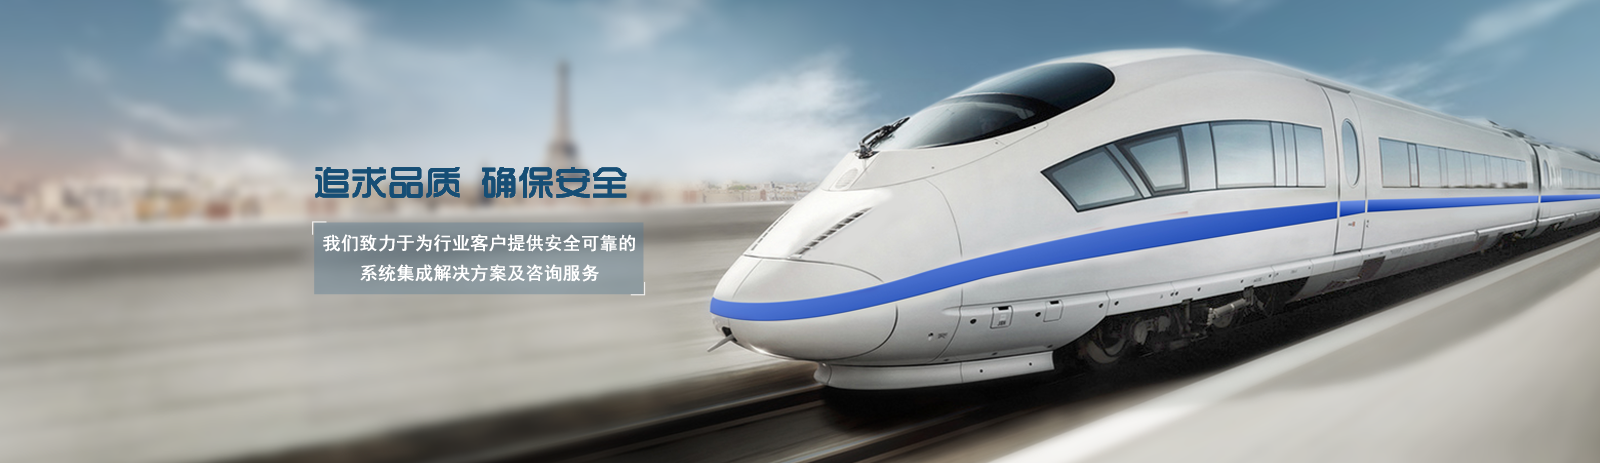
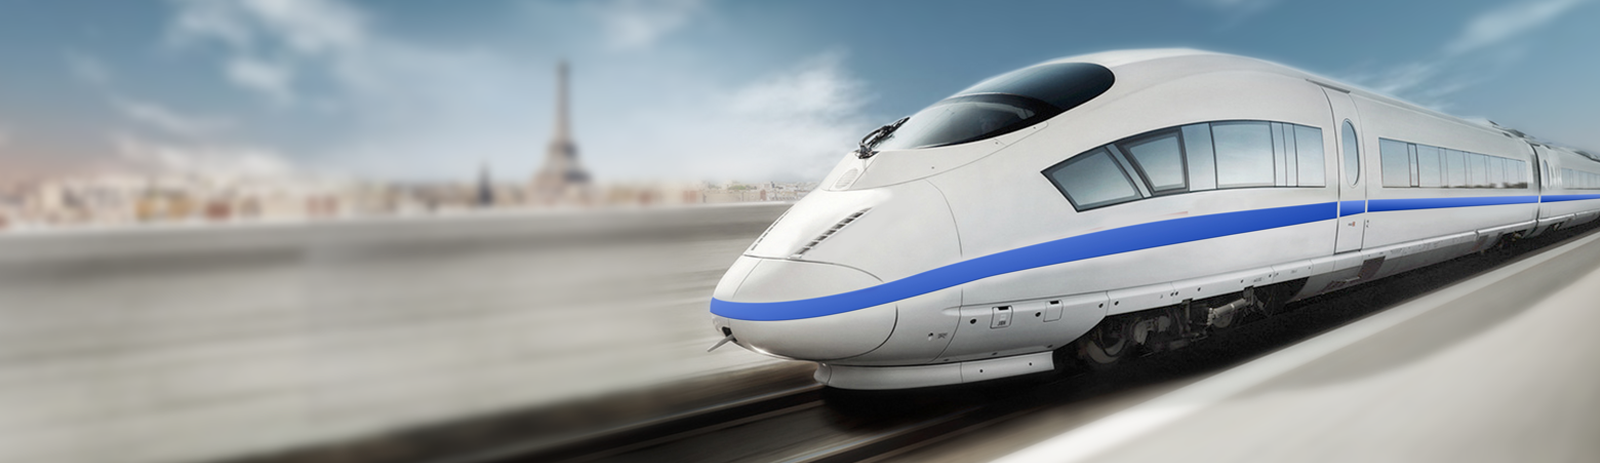
summary

Changed region(s): [[0.1875, 0.4838, 0.4062, 0.635], [0.1875, 0.3629, 0.4062, 0.4233]]

diff --git a/assets/css/all.css b/assets/css/all.css
@@ -130,6 +130,31 @@ img {
   margin-top: 4px;
 }
 
+.jc-banner01-text {
+  width: 162px;
+  height: 372px;
+  position: absolute;
+  top: 20%;
+  left: 10%;
+}
+
+.jc-banner02-text {
+  width: 228px;
+  height: 121px;
+  position: absolute;
+  left: 50%;
+  top: 10%;
+}
+
+.jc-banner03-text {
+  width: 384px;
+  height: 106px;
+  left: 10%;
+  top: 10%;
+  display: block;
+  position: absolute;
+}
+
 .jc_flexslider {
   margin: 0px auto 20px;
   position: relative;
@@ -479,8 +504,14 @@ screen\8 {
 .jc-application-threecont p {
   line-height: 32px;
   font-size: 16px;
-  font-family: "SimHei";
   white-space: normal;
+}
+
+.jc-main .jc-maindel p,
+.jc-about p,
+.jc-application-twocont p,
+.jc-application-threecont p .jc-join-modulecont p {
+  font-family: "SimHei";
 }
 
 .jc-servicecont {
@@ -686,7 +717,7 @@ screen\8 {
 }
 
 .jc-contact-text {
-  width: 500px;
+  width: 460px;
   padding-top: 90px;
   float: left;
   text-align: center;
@@ -694,6 +725,14 @@ screen\8 {
 
 .jc-contact-text h3 {
   margin-bottom: 10px;
+}
+
+.jc-contact-text p a {
+  color: #000;
+}
+
+.jc-contact-text p a:hover {
+  color: #12387c;
 }
 
 .jc-contact-map {
@@ -719,9 +758,10 @@ screen\8 {
 }
 
 .jc-join-moduletitle p {
-  font-size: 24px;
+  font-size: 22px;
   color: #12387c;
   float: left;
+  font-weight: bold;
 }
 
 .jc-join-right {
@@ -746,7 +786,7 @@ screen\8 {
 }
 
 .jc-join-modulecont span {
-  font-size: 18px;
+  font-size: 16px;
   margin-bottom: 10px;
   margin-top: 14px;
   display: block;

diff --git a/index.html b/index.html
@@ -40,17 +40,20 @@
     <!-- 轮播广告 -->
     <div id="jc_banner_tabs" class="jc_flexslider">
       <ul class="jc_slides">
-        <li>
+        <!--  <li>
+          <span class="jc-banner01-text"><img src="assets/images/jc_banner01_text.png" height="162" width="372" alt=""></span>
           <a title="" target="_blank" href="about.html">
             <img width="1920" height="464" alt="" style="background: url(assets/images/jc_banner01.png) no-repeat center; background-size: cover;" src="assets/images/alpha.png">
           </a>
-        </li>
+        </li> -->
         <li>
+          <span class="jc-banner02-text"><img src="assets/images/jc_banner02_text.png" height="121" width="228" alt=""></span>
           <a title="" href="product.html">
             <img width="1920" height="464" alt="" style="background: url(assets/images/jc_banner02.png) no-repeat center;background-size: cover;" src="assets/images/alpha.png">
           </a>
         </li>
         <li>
+          <span class="jc-banner03-text"><img src="assets/images/jc_banner03_text.png" height="106" width="384" alt=""></span>
           <a title="" href="application.html">
             <img width="1920" height="464" alt="" style="background: url(assets/images/jc_banner03.png) no-repeat center;background-size: cover;" src="assets/images/alpha.png">
           </a>

diff --git a/contact.html b/contact.html
@@ -100,9 +100,9 @@
     <div class="jc-contact-inner">
       <div class="jc-contact-text">
         <h3>北京中航嘉城科技股份有限公司</h3>
-        <p>服务热线：4008-345-876（16px）
+        <p>服务热线：4008-345-876
           <br> 传真：010-62967927
-          <br> 邮箱：info@jccatech.com
+          <br> 邮箱：<a href="mailto:info@jccatech.com">info@jccatech.com</a>
           <br> 地址：北京市海淀区高粱桥斜街59号中坤大厦1018
         </p>
       </div>
@@ -145,7 +145,7 @@
   //创建检索信息窗口对象
   var searchInfoWindow = null;
   searchInfoWindow = new BMapLib.SearchInfoWindow(map, content, {
-    title: "中坤大厦", //标题
+    title: "中航嘉城", //标题
     width: 290, //宽度
     height: 105, //高度
     panel: "panel", //检索结果面板

diff --git a/about.html b/about.html
@@ -37,7 +37,10 @@
   <!-- jc-banner  start-->
   <div class="jc-banner-inner">
     <div id="jc_banner_tabs" class="jc_flexslider">
-      <img width="1920" height="464" alt="" style="background: url(assets/images/jc_banner01.png) no-repeat center;background-size: cover;" src="assets/images/alpha.png">
+      <span class="jc-banner01-text"><img src="assets/images/jc_banner01_text.png" height="162" width="372" alt=""></span>
+      <a title="" target="_blank" href="about.html">
+        <img width="1920" height="464" alt="" style="background: url(assets/images/jc_banner01.png) no-repeat center; background-size: cover;" src="assets/images/alpha.png">
+      </a>
     </div>
   </div>
   <!-- jc-banner  end-->

diff --git a/application.html b/application.html
@@ -38,7 +38,10 @@
   <div class="jc-banner-inner">
     <!-- 轮播广告 -->
     <div id="jc_banner_tabs" class="jc_flexslider">
-      <img width="1920" height="464" alt="" style="background: url(assets/images/jc_banner02.png) no-repeat center;background-size: cover;" src="assets/images/alpha.png">
+      <span class="jc-banner03-text"><img src="assets/images/jc_banner03_text.png" height="106" width="384" alt=""></span>
+      <a title="" href="application.html">
+        <img width="1920" height="464" alt="" style="background: url(assets/images/jc_banner03.png) no-repeat center;background-size: cover;" src="assets/images/alpha.png">
+      </a>
     </div>
   </div>
   <!-- jc-banner  end-->

diff --git a/product.html b/product.html
@@ -38,7 +38,10 @@
   <div class="jc-banner-inner">
     <!-- 轮播广告 -->
     <div id="jc_banner_tabs" class="jc_flexslider">
-      <img width="1920" height="464" alt="" style="background: url(assets/images/jc_banner02.png) no-repeat center;background-size: cover;" src="assets/images/alpha.png">
+      <span class="jc-banner02-text"><img src="assets/images/jc_banner02_text.png" height="121" width="228" alt=""></span>
+      <a title="" href="product.html">
+        <img width="1920" height="464" alt="" style="background: url(assets/images/jc_banner02.png) no-repeat center;background-size: cover;" src="assets/images/alpha.png">
+      </a>
     </div>
   </div>
   <!-- jc-banner  end-->
